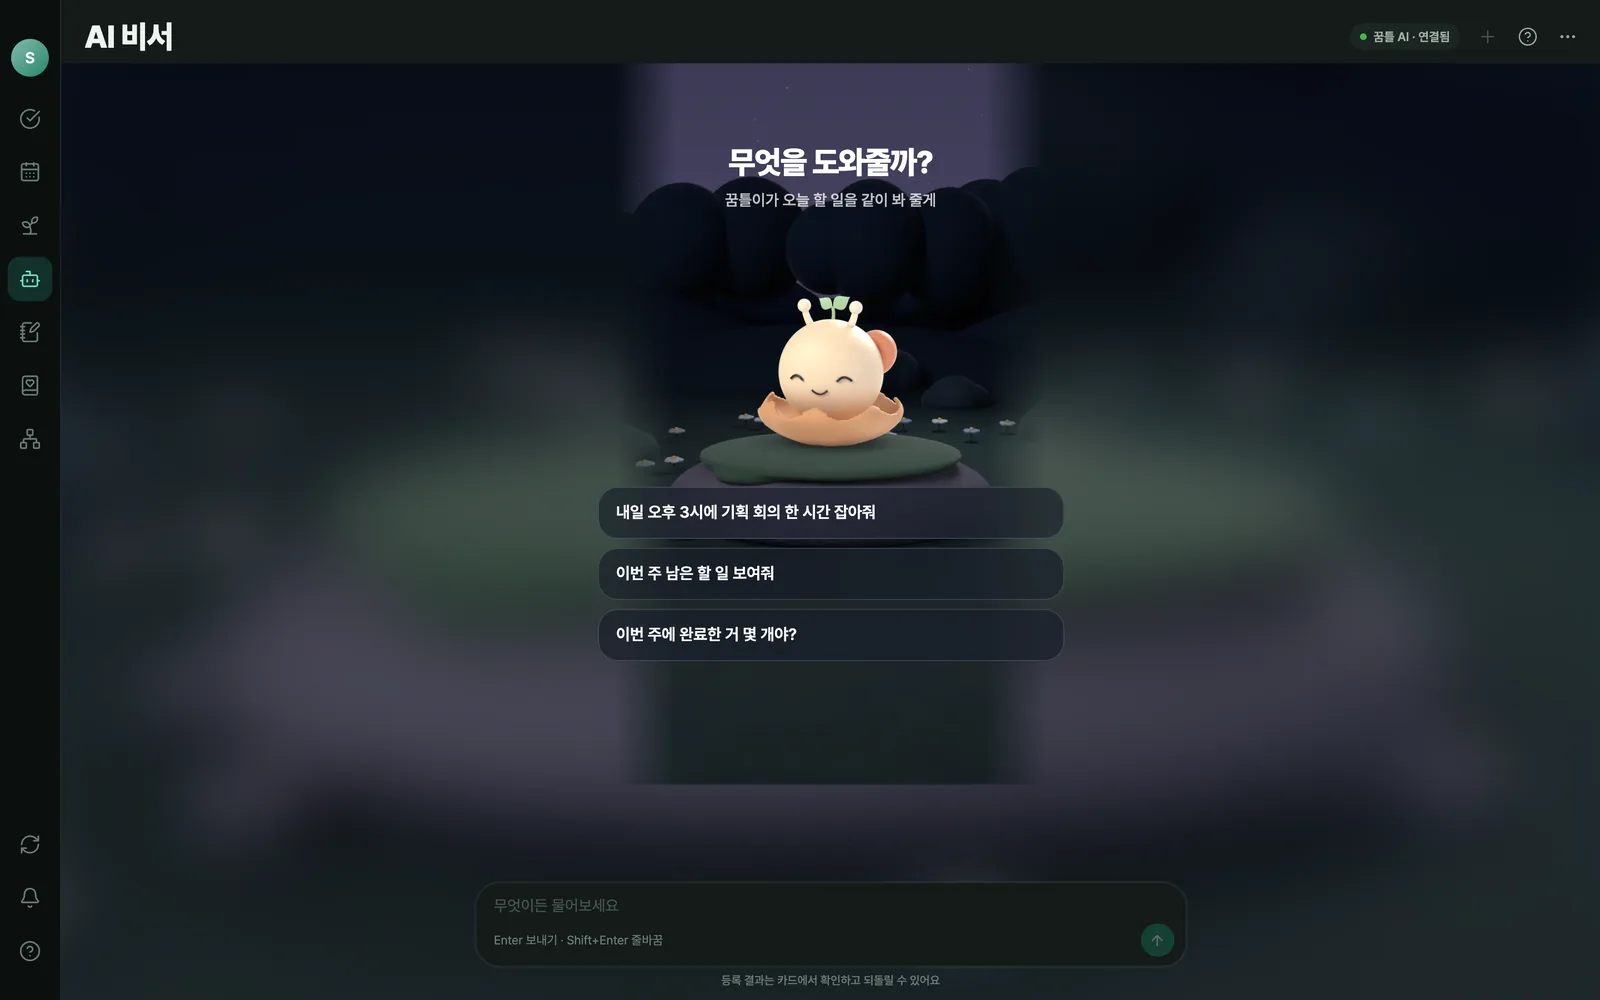
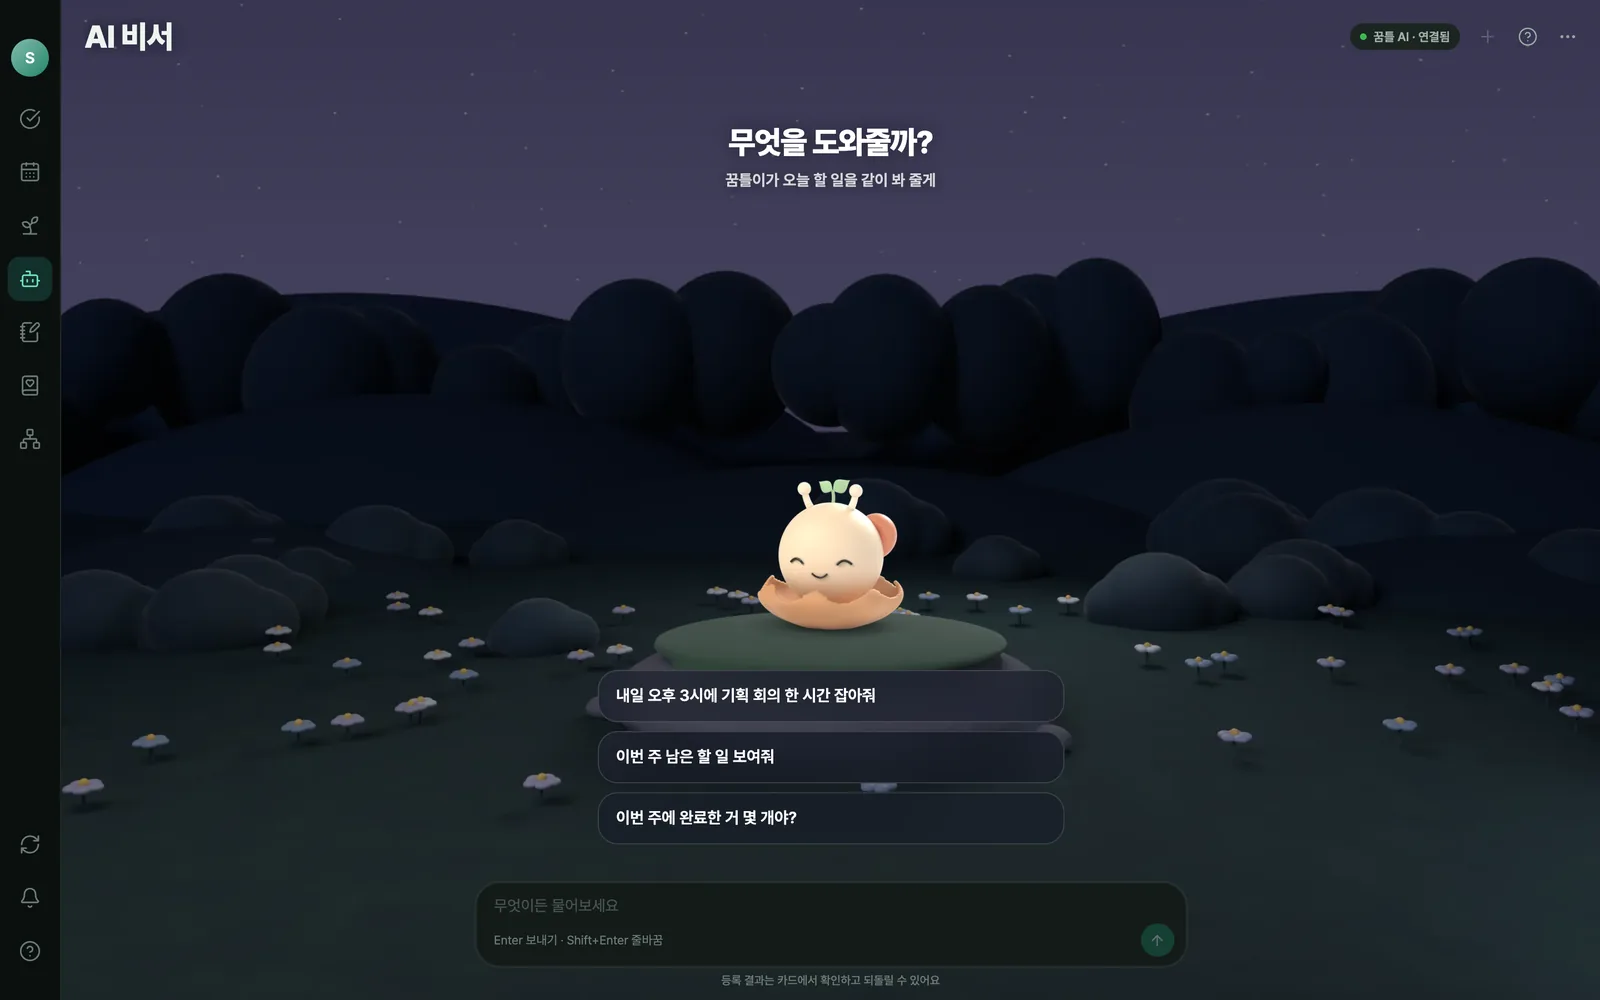
사이트: AI 비서·성장 캡처를 가로 고해상도 장면 화면으로 다시(라이트·다크) — Railway · GitHub Pages 배포

diff --git a/site/public/index.html b/site/public/index.html
@@ -30,7 +30,7 @@
 <link rel="icon" href="/favicon.svg" type="image/svg+xml">
 <link rel="apple-touch-icon" href="/apple-touch-icon.png">
 <link rel="manifest" href="/site.webmanifest">
-<link rel="stylesheet" href="/assets/styles.css?v=mv1zt61b">
+<link rel="stylesheet" href="/assets/styles.css?v=mv27y6jd">
 </head>
 <body>
 <a class="skip" href="#main"><span lang="ko" data-l="ko">본문으로 건너뛰기</span><span lang="en" data-l="en">Skip to content</span></a>
@@ -73,7 +73,7 @@
 <div class="sec-head center reveal"><div class="kicker"><span lang="ko" data-l="ko">성장</span><span lang="en" data-l="en">Growth</span></div><h2 id="growth-title"><span lang="ko" data-l="ko">끝낸 일이<br>캐릭터를 키워요</span><span lang="en" data-l="en">Finished tasks<br>grow your character</span></h2><p><span lang="ko" data-l="ko">퀘스트를 하나씩 끝내 보세요. 알이 깨어나고, 레벨이 오르면 다음 모습으로 자라요.</span><span lang="en" data-l="en">Finish a few quests. The egg hatches, and as you level up your character evolves.</span></p></div>
 <div class="demo-wrap reveal"><div class="win app-win wide"><div class="win-bar" aria-hidden="true"><i></i><i></i><i></i><span class="win-title"><span lang="ko" data-l="ko">꿈틀 — 성장</span><span lang="en" data-l="en">Kkumteul — Growth</span></span><span class="win-badge"><span lang="ko" data-l="ko">직접 해 보기</span><span lang="en" data-l="en">Try it</span></span></div><div class="demo demo-growth" data-demo="growth"><noscript><p class="nojs"><span lang="ko" data-l="ko">자바스크립트를 켜면 여기서 직접 해 볼 수 있어요.</span><span lang="en" data-l="en">Turn on JavaScript to try it here.</span></p></noscript></div></div></div>
 <ul class="tries" aria-label="해 볼 것" data-aria-ko="해 볼 것" data-aria-en="Things to try"><li><span lang="ko" data-l="ko">퀘스트 체크하기</span><span lang="en" data-l="en">Check off quests</span></li><li><span lang="ko" data-l="ko">캐릭터 눌러 쓰다듬기</span><span lang="en" data-l="en">Tap the character</span></li><li><span lang="ko" data-l="ko">종 바꿔 보기</span><span lang="en" data-l="en">Switch species</span></li></ul>
-<div class="proof reveal"><div class="proof-text"><div class="proof-k"><span lang="ko" data-l="ko">실제 앱 화면</span><span lang="en" data-l="en">The real app</span></div><h3 class="proof-h"><span lang="ko" data-l="ko">한 주는 퀘스트로 정하고, 주말엔 같이 돌아봐요</span><span lang="en" data-l="en">Set the week as quests, then look back together</span></h3><ul class="ticks"><li><span lang="ko" data-l="ko">처음에 짧은 성향 질문으로 나에게 맞는 종이 알에서 나와요</span><span lang="en" data-l="en">A few quick questions pick the species that hatches</span></li><li><span lang="ko" data-l="ko">할 일 1 XP · 퀘스트 30 XP · 주간 점검 30 XP · 정리 20 XP</span><span lang="en" data-l="en">1 XP per task, 30 per quest, 30 per weekly review, 20 per tidy-up</span></li><li><span lang="ko" data-l="ko">레벨이 오르면 방을 꾸밀 장식이 하나씩 열려요</span><span lang="en" data-l="en">Each level unlocks a decoration for the room</span></li><li><span lang="ko" data-l="ko">주간 리포트 — 숫자는 앱이 세고, 글은 AI가 써요</span><span lang="en" data-l="en">Weekly report: the app counts, AI writes the note</span></li></ul></div><figure class="proof-shot"><div class="win"><div class="win-bar" aria-hidden="true"><i></i><i></i><i></i></div><img src="/assets/img/growth.webp?v=7da75c83" data-dark="/assets/img/growth-dark.webp?v=48bea9ea" alt="성장 — 마스코트 꿈틀이와 이번 주 퀘스트" data-alt-ko="성장 — 마스코트 꿈틀이와 이번 주 퀘스트" data-alt-en="Growth room with the Kkumteul mascot and weekly quests" width="1600" height="1000" loading="lazy" decoding="async"></div></figure></div>
+<div class="proof reveal"><div class="proof-text"><div class="proof-k"><span lang="ko" data-l="ko">실제 앱 화면</span><span lang="en" data-l="en">The real app</span></div><h3 class="proof-h"><span lang="ko" data-l="ko">한 주는 퀘스트로 정하고, 주말엔 같이 돌아봐요</span><span lang="en" data-l="en">Set the week as quests, then look back together</span></h3><ul class="ticks"><li><span lang="ko" data-l="ko">처음에 짧은 성향 질문으로 나에게 맞는 종이 알에서 나와요</span><span lang="en" data-l="en">A few quick questions pick the species that hatches</span></li><li><span lang="ko" data-l="ko">할 일 1 XP · 퀘스트 30 XP · 주간 점검 30 XP · 정리 20 XP</span><span lang="en" data-l="en">1 XP per task, 30 per quest, 30 per weekly review, 20 per tidy-up</span></li><li><span lang="ko" data-l="ko">레벨이 오르면 방을 꾸밀 장식이 하나씩 열려요</span><span lang="en" data-l="en">Each level unlocks a decoration for the room</span></li><li><span lang="ko" data-l="ko">주간 리포트 — 숫자는 앱이 세고, 글은 AI가 써요</span><span lang="en" data-l="en">Weekly report: the app counts, AI writes the note</span></li></ul></div><figure class="proof-shot"><div class="win"><div class="win-bar" aria-hidden="true"><i></i><i></i><i></i></div><img src="/assets/img/growth.webp?v=51c80208" data-dark="/assets/img/growth-dark.webp?v=e9443a2b" alt="성장 — 마스코트 꿈틀이와 이번 주 퀘스트" data-alt-ko="성장 — 마스코트 꿈틀이와 이번 주 퀘스트" data-alt-en="Growth room with the Kkumteul mascot and weekly quests" width="1600" height="1000" loading="lazy" decoding="async"></div></figure></div>
 </div>
 </section>
 
@@ -89,7 +89,7 @@
 <section id="assistant" aria-labelledby="ai-title">
 <div class="wrap">
 <div class="sec-head center reveal"><div class="kicker"><span lang="ko" data-l="ko">AI 비서</span><span lang="en" data-l="en">AI assistant</span></div><h2 id="ai-title"><span lang="ko" data-l="ko">말로 시키면<br>꿈틀이가 정리해요</span><span lang="en" data-l="en">Just say it,<br>and Kkumteul sorts it out</span></h2><p><span lang="ko" data-l="ko">할 일을 말로 넣고, 지난 기록을 묻고, 이번 주 급한 일을 같이 골라요.</span><span lang="en" data-l="en">Add tasks by talking, ask about your past, and pick this week’s priorities together.</span></p></div>
-<div class="proof reveal"><div class="proof-text"><div class="proof-k"><span lang="ko" data-l="ko">실제 앱 화면</span><span lang="en" data-l="en">The real app</span></div><h3 class="proof-h"><span lang="ko" data-l="ko">물어보면 내 할 일·일정에서 찾아 답해요</span><span lang="en" data-l="en">Answers from your own tasks and events</span></h3><ul class="ticks"><li><span lang="ko" data-l="ko">“내일 오후 3시 회의 잡아 줘” — 말로 할 일·일정 만들기</span><span lang="en" data-l="en">“Book a meeting tomorrow at 3pm” — create tasks and events by talking</span></li><li><span lang="ko" data-l="ko">“미용실 간 지 얼마나 지났지?” — 지난 기록 찾아보기</span><span lang="en" data-l="en">“How long since my last haircut?” — look things up in your history</span></li><li><span lang="ko" data-l="ko">저장하기 전엔 늘 카드로 보여 주고, 되돌릴 수 있어요</span><span lang="en" data-l="en">Always shows a card before saving, and you can undo</span></li><li><span lang="ko" data-l="ko">꿈틀 서버에서만 돌아가요 — 인터넷은 보지 않아요</span><span lang="en" data-l="en">Runs only on Kkumteul’s server and never browses the web</span></li></ul></div><figure class="proof-shot"><div class="win"><div class="win-bar" aria-hidden="true"><i></i><i></i><i></i></div><img src="/assets/img/assistant.webp?v=b2d4f4e2" data-dark="/assets/img/assistant-dark.webp?v=fc4ff6e3" alt="AI 비서 — 무엇을 도와줄까? 정원 위 꿈틀이와 추천 질문" data-alt-ko="AI 비서 — 무엇을 도와줄까? 정원 위 꿈틀이와 추천 질문" data-alt-en="AI assistant: Kkumteul in the garden with suggested questions" width="1600" height="1000" loading="lazy" decoding="async"></div></figure></div>
+<div class="proof reveal"><div class="proof-text"><div class="proof-k"><span lang="ko" data-l="ko">실제 앱 화면</span><span lang="en" data-l="en">The real app</span></div><h3 class="proof-h"><span lang="ko" data-l="ko">물어보면 내 할 일·일정에서 찾아 답해요</span><span lang="en" data-l="en">Answers from your own tasks and events</span></h3><ul class="ticks"><li><span lang="ko" data-l="ko">“내일 오후 3시 회의 잡아 줘” — 말로 할 일·일정 만들기</span><span lang="en" data-l="en">“Book a meeting tomorrow at 3pm” — create tasks and events by talking</span></li><li><span lang="ko" data-l="ko">“미용실 간 지 얼마나 지났지?” — 지난 기록 찾아보기</span><span lang="en" data-l="en">“How long since my last haircut?” — look things up in your history</span></li><li><span lang="ko" data-l="ko">저장하기 전엔 늘 카드로 보여 주고, 되돌릴 수 있어요</span><span lang="en" data-l="en">Always shows a card before saving, and you can undo</span></li><li><span lang="ko" data-l="ko">꿈틀 서버에서만 돌아가요 — 인터넷은 보지 않아요</span><span lang="en" data-l="en">Runs only on Kkumteul’s server and never browses the web</span></li></ul></div><figure class="proof-shot"><div class="win"><div class="win-bar" aria-hidden="true"><i></i><i></i><i></i></div><img src="/assets/img/assistant.webp?v=fa6e3c82" data-dark="/assets/img/assistant-dark.webp?v=2163317f" alt="AI 비서 — 무엇을 도와줄까? 정원 위 꿈틀이와 추천 질문" data-alt-ko="AI 비서 — 무엇을 도와줄까? 정원 위 꿈틀이와 추천 질문" data-alt-en="AI assistant: Kkumteul in the garden with suggested questions" width="1600" height="1000" loading="lazy" decoding="async"></div></figure></div>
 </div>
 </section>
 
@@ -188,7 +188,7 @@
 <a href="/support"><span lang="ko" data-l="ko">지원</span><span lang="en" data-l="en">Support</span></a>
 </nav>
 </div></footer>
-<script src="/assets/app.js?v=mv1zt61b" defer></script>
-<script src="/assets/demos.js?v=mv1zt61b" defer></script>
+<script src="/assets/app.js?v=mv27y6jd" defer></script>
+<script src="/assets/demos.js?v=mv27y6jd" defer></script>
 </body>
 </html>

diff --git a/site/public/account-deletion.html b/site/public/account-deletion.html
@@ -30,7 +30,7 @@
 <link rel="icon" href="/favicon.svg" type="image/svg+xml">
 <link rel="apple-touch-icon" href="/apple-touch-icon.png">
 <link rel="manifest" href="/site.webmanifest">
-<link rel="stylesheet" href="/assets/styles.css?v=mv1zt61b">
+<link rel="stylesheet" href="/assets/styles.css?v=mv27y6jd">
 </head>
 <body>
 <a class="skip" href="#main"><span lang="ko" data-l="ko">본문으로 건너뛰기</span><span lang="en" data-l="en">Skip to content</span></a>
@@ -103,6 +103,6 @@
 <a href="/support"><span lang="ko" data-l="ko">지원</span><span lang="en" data-l="en">Support</span></a>
 </nav>
 </div></footer>
-<script src="/assets/app.js?v=mv1zt61b" defer></script>
+<script src="/assets/app.js?v=mv27y6jd" defer></script>
 </body>
 </html>

diff --git a/site/public/privacy.html b/site/public/privacy.html
@@ -30,7 +30,7 @@
 <link rel="icon" href="/favicon.svg" type="image/svg+xml">
 <link rel="apple-touch-icon" href="/apple-touch-icon.png">
 <link rel="manifest" href="/site.webmanifest">
-<link rel="stylesheet" href="/assets/styles.css?v=mv1zt61b">
+<link rel="stylesheet" href="/assets/styles.css?v=mv27y6jd">
 </head>
 <body>
 <a class="skip" href="#main"><span lang="ko" data-l="ko">본문으로 건너뛰기</span><span lang="en" data-l="en">Skip to content</span></a>
@@ -145,6 +145,6 @@
 <a href="/support"><span lang="ko" data-l="ko">지원</span><span lang="en" data-l="en">Support</span></a>
 </nav>
 </div></footer>
-<script src="/assets/app.js?v=mv1zt61b" defer></script>
+<script src="/assets/app.js?v=mv27y6jd" defer></script>
 </body>
 </html>

diff --git a/site/public/terms.html b/site/public/terms.html
@@ -30,7 +30,7 @@
 <link rel="icon" href="/favicon.svg" type="image/svg+xml">
 <link rel="apple-touch-icon" href="/apple-touch-icon.png">
 <link rel="manifest" href="/site.webmanifest">
-<link rel="stylesheet" href="/assets/styles.css?v=mv1zt61b">
+<link rel="stylesheet" href="/assets/styles.css?v=mv27y6jd">
 </head>
 <body>
 <a class="skip" href="#main"><span lang="ko" data-l="ko">본문으로 건너뛰기</span><span lang="en" data-l="en">Skip to content</span></a>
@@ -125,6 +125,6 @@
 <a href="/support"><span lang="ko" data-l="ko">지원</span><span lang="en" data-l="en">Support</span></a>
 </nav>
 </div></footer>
-<script src="/assets/app.js?v=mv1zt61b" defer></script>
+<script src="/assets/app.js?v=mv27y6jd" defer></script>
 </body>
 </html>

diff --git a/site/public/404.html b/site/public/404.html
@@ -30,7 +30,7 @@
 <link rel="icon" href="/favicon.svg" type="image/svg+xml">
 <link rel="apple-touch-icon" href="/apple-touch-icon.png">
 <link rel="manifest" href="/site.webmanifest">
-<link rel="stylesheet" href="/assets/styles.css?v=mv1zt61b">
+<link rel="stylesheet" href="/assets/styles.css?v=mv27y6jd">
 </head>
 <body>
 <a class="skip" href="#main"><span lang="ko" data-l="ko">본문으로 건너뛰기</span><span lang="en" data-l="en">Skip to content</span></a>
@@ -62,6 +62,6 @@
 <a href="/support"><span lang="ko" data-l="ko">지원</span><span lang="en" data-l="en">Support</span></a>
 </nav>
 </div></footer>
-<script src="/assets/app.js?v=mv1zt61b" defer></script>
+<script src="/assets/app.js?v=mv27y6jd" defer></script>
 </body>
 </html>

diff --git a/site/public/support.html b/site/public/support.html
@@ -30,7 +30,7 @@
 <link rel="icon" href="/favicon.svg" type="image/svg+xml">
 <link rel="apple-touch-icon" href="/apple-touch-icon.png">
 <link rel="manifest" href="/site.webmanifest">
-<link rel="stylesheet" href="/assets/styles.css?v=mv1zt61b">
+<link rel="stylesheet" href="/assets/styles.css?v=mv27y6jd">
 </head>
 <body>
 <a class="skip" href="#main"><span lang="ko" data-l="ko">본문으로 건너뛰기</span><span lang="en" data-l="en">Skip to content</span></a>
@@ -97,6 +97,6 @@
 <a href="/support"><span lang="ko" data-l="ko">지원</span><span lang="en" data-l="en">Support</span></a>
 </nav>
 </div></footer>
-<script src="/assets/app.js?v=mv1zt61b" defer></script>
+<script src="/assets/app.js?v=mv27y6jd" defer></script>
 </body>
 </html>
